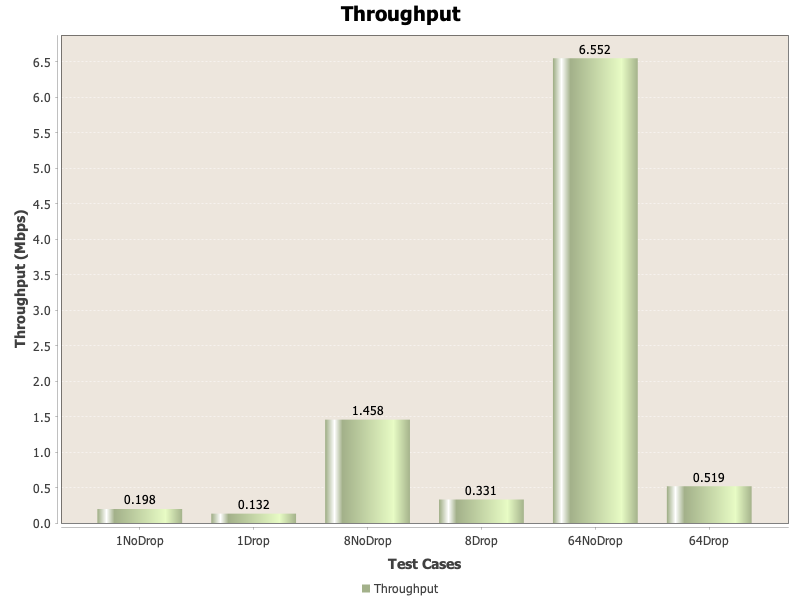
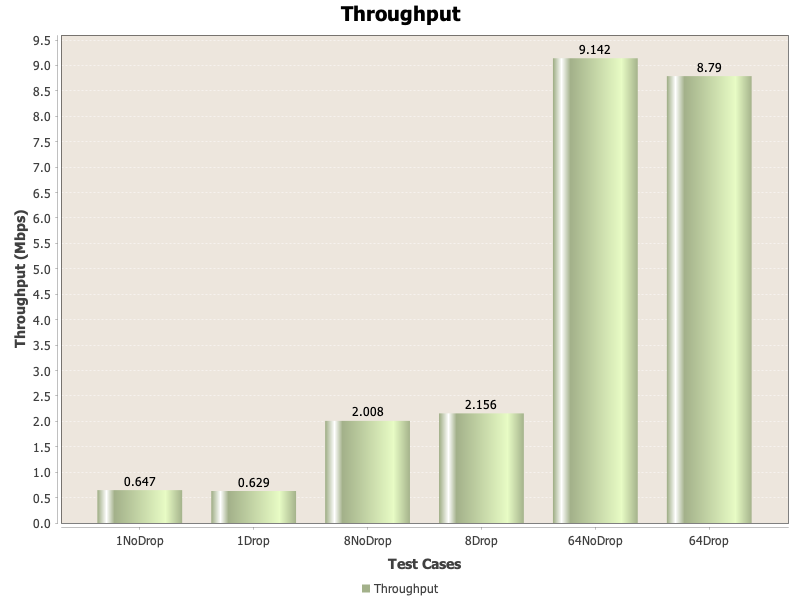
rho-moxie data collected

diff --git a/src/main/java/rho-moxie/htmlFiles/drop_disable_1_throughput.html b/src/main/java/rho-moxie/htmlFiles/drop_disable_1_throughput.html
@@ -6,8 +6,8 @@
     </div> 
     <div style='flex: 1; padding-left: 20px; align-content:end;'> 
       <p>File Size: 1882548 bytes</p> 
-      <p>Elapsed Time: 76.002 seconds</p> 
-      <p>Throughput: 0.19815663118055596 Mbps</p> 
+      <p>Elapsed Time: 23.280 seconds</p> 
+      <p>Throughput: 0.6469112009167866 Mbps</p> 
     </div>
   </div> 
 </div> 

diff --git a/src/main/java/rho-moxie/htmlFiles/drop_enable_1_throughput.html b/src/main/java/rho-moxie/htmlFiles/drop_enable_1_throughput.html
@@ -6,8 +6,8 @@
     </div> 
     <div style='flex: 1; padding-left: 20px; align-content:end;'> 
       <p>File Size: 1882548 bytes</p> 
-      <p>Elapsed Time: 114.090 seconds</p> 
-      <p>Throughput: 0.1320046486316449 Mbps</p> 
+      <p>Elapsed Time: 23.944 seconds</p> 
+      <p>Throughput: 0.6289941639085119 Mbps</p> 
     </div>
   </div> 
 </div> 

diff --git a/src/main/java/rho-moxie/htmlFiles/drop_enable_8_throughput.html b/src/main/java/rho-moxie/htmlFiles/drop_enable_8_throughput.html
@@ -6,8 +6,8 @@
     </div> 
     <div style='flex: 1; padding-left: 20px; align-content:end;'> 
       <p>File Size: 1187342 bytes</p> 
-      <p>Elapsed Time: 28.720 seconds</p> 
-      <p>Throughput: 0.33073790541422815 Mbps</p> 
+      <p>Elapsed Time: 4.406 seconds</p> 
+      <p>Throughput: 2.1559134144304277 Mbps</p> 
     </div>
   </div> 
 </div> 

diff --git a/src/main/java/rho-moxie/htmlFiles/drop_enable_64_throughput.html b/src/main/java/rho-moxie/htmlFiles/drop_enable_64_throughput.html
@@ -6,8 +6,8 @@
     </div> 
     <div style='flex: 1; padding-left: 20px; align-content:end;'> 
       <p>File Size: 1281499 bytes</p> 
-      <p>Elapsed Time: 19.767 seconds</p> 
-      <p>Throughput: 0.5186543329245255 Mbps</p> 
+      <p>Elapsed Time: 1.166 seconds</p> 
+      <p>Throughput: 8.789875465784027 Mbps</p> 
     </div>
   </div> 
 </div> 

diff --git a/src/main/java/rho-moxie/htmlFiles/drop_disable_64_throughput.html b/src/main/java/rho-moxie/htmlFiles/drop_disable_64_throughput.html
@@ -6,8 +6,8 @@
     </div> 
     <div style='flex: 1; padding-left: 20px; align-content:end;'> 
       <p>File Size: 1281499 bytes</p> 
-      <p>Elapsed Time: 1.565 seconds</p> 
-      <p>Throughput: 6.5518517112493315 Mbps</p> 
+      <p>Elapsed Time: 1.121 seconds</p> 
+      <p>Throughput: 9.141609818878441 Mbps</p> 
     </div>
   </div> 
 </div> 

diff --git a/src/main/java/rho-moxie/htmlFiles/drop_disable_8_throughput.html b/src/main/java/rho-moxie/htmlFiles/drop_disable_8_throughput.html
@@ -6,8 +6,8 @@
     </div> 
     <div style='flex: 1; padding-left: 20px; align-content:end;'> 
       <p>File Size: 1187342 bytes</p> 
-      <p>Elapsed Time: 6.517 seconds</p> 
-      <p>Throughput: 1.4576411192813026 Mbps</p> 
+      <p>Elapsed Time: 4.730 seconds</p> 
+      <p>Throughput: 2.008047832934913 Mbps</p> 
     </div>
   </div> 
 </div> 

diff --git a/src/main/java/GraphGenerator.java b/src/main/java/GraphGenerator.java
@@ -16,8 +16,8 @@ import org.jfree.data.category.DefaultCategoryDataset;
 public class GraphGenerator {
 
 //    private static final String host_to_server = "local-local";
-    private static final String host_to_server = "pi-rho";
-//    private static final String host_to_server = "rho-moxie";
+//    private static final String host_to_server = "pi-rho";
+    private static final String host_to_server = "rho-moxie";
 
 
     public static void generateBarChart(String[] csvFilePaths, String[] xAxisLabels,

diff --git a/src/main/java/Client.java b/src/main/java/Client.java
@@ -6,8 +6,8 @@ import java.util.TreeMap;
 
 public class Client {
 //    private static final String PROXY_HOST = "localhost";
-        private static final String PROXY_HOST = "rho.cs.oswego.edu";
-//        private static final String PROXY_HOST = "moxie.cs.oswego.edu";
+//        private static final String PROXY_HOST = "rho.cs.oswego.edu";
+        private static final String PROXY_HOST = "moxie.cs.oswego.edu";
 
     private static final int PROXY_PORT = 26896;
 
